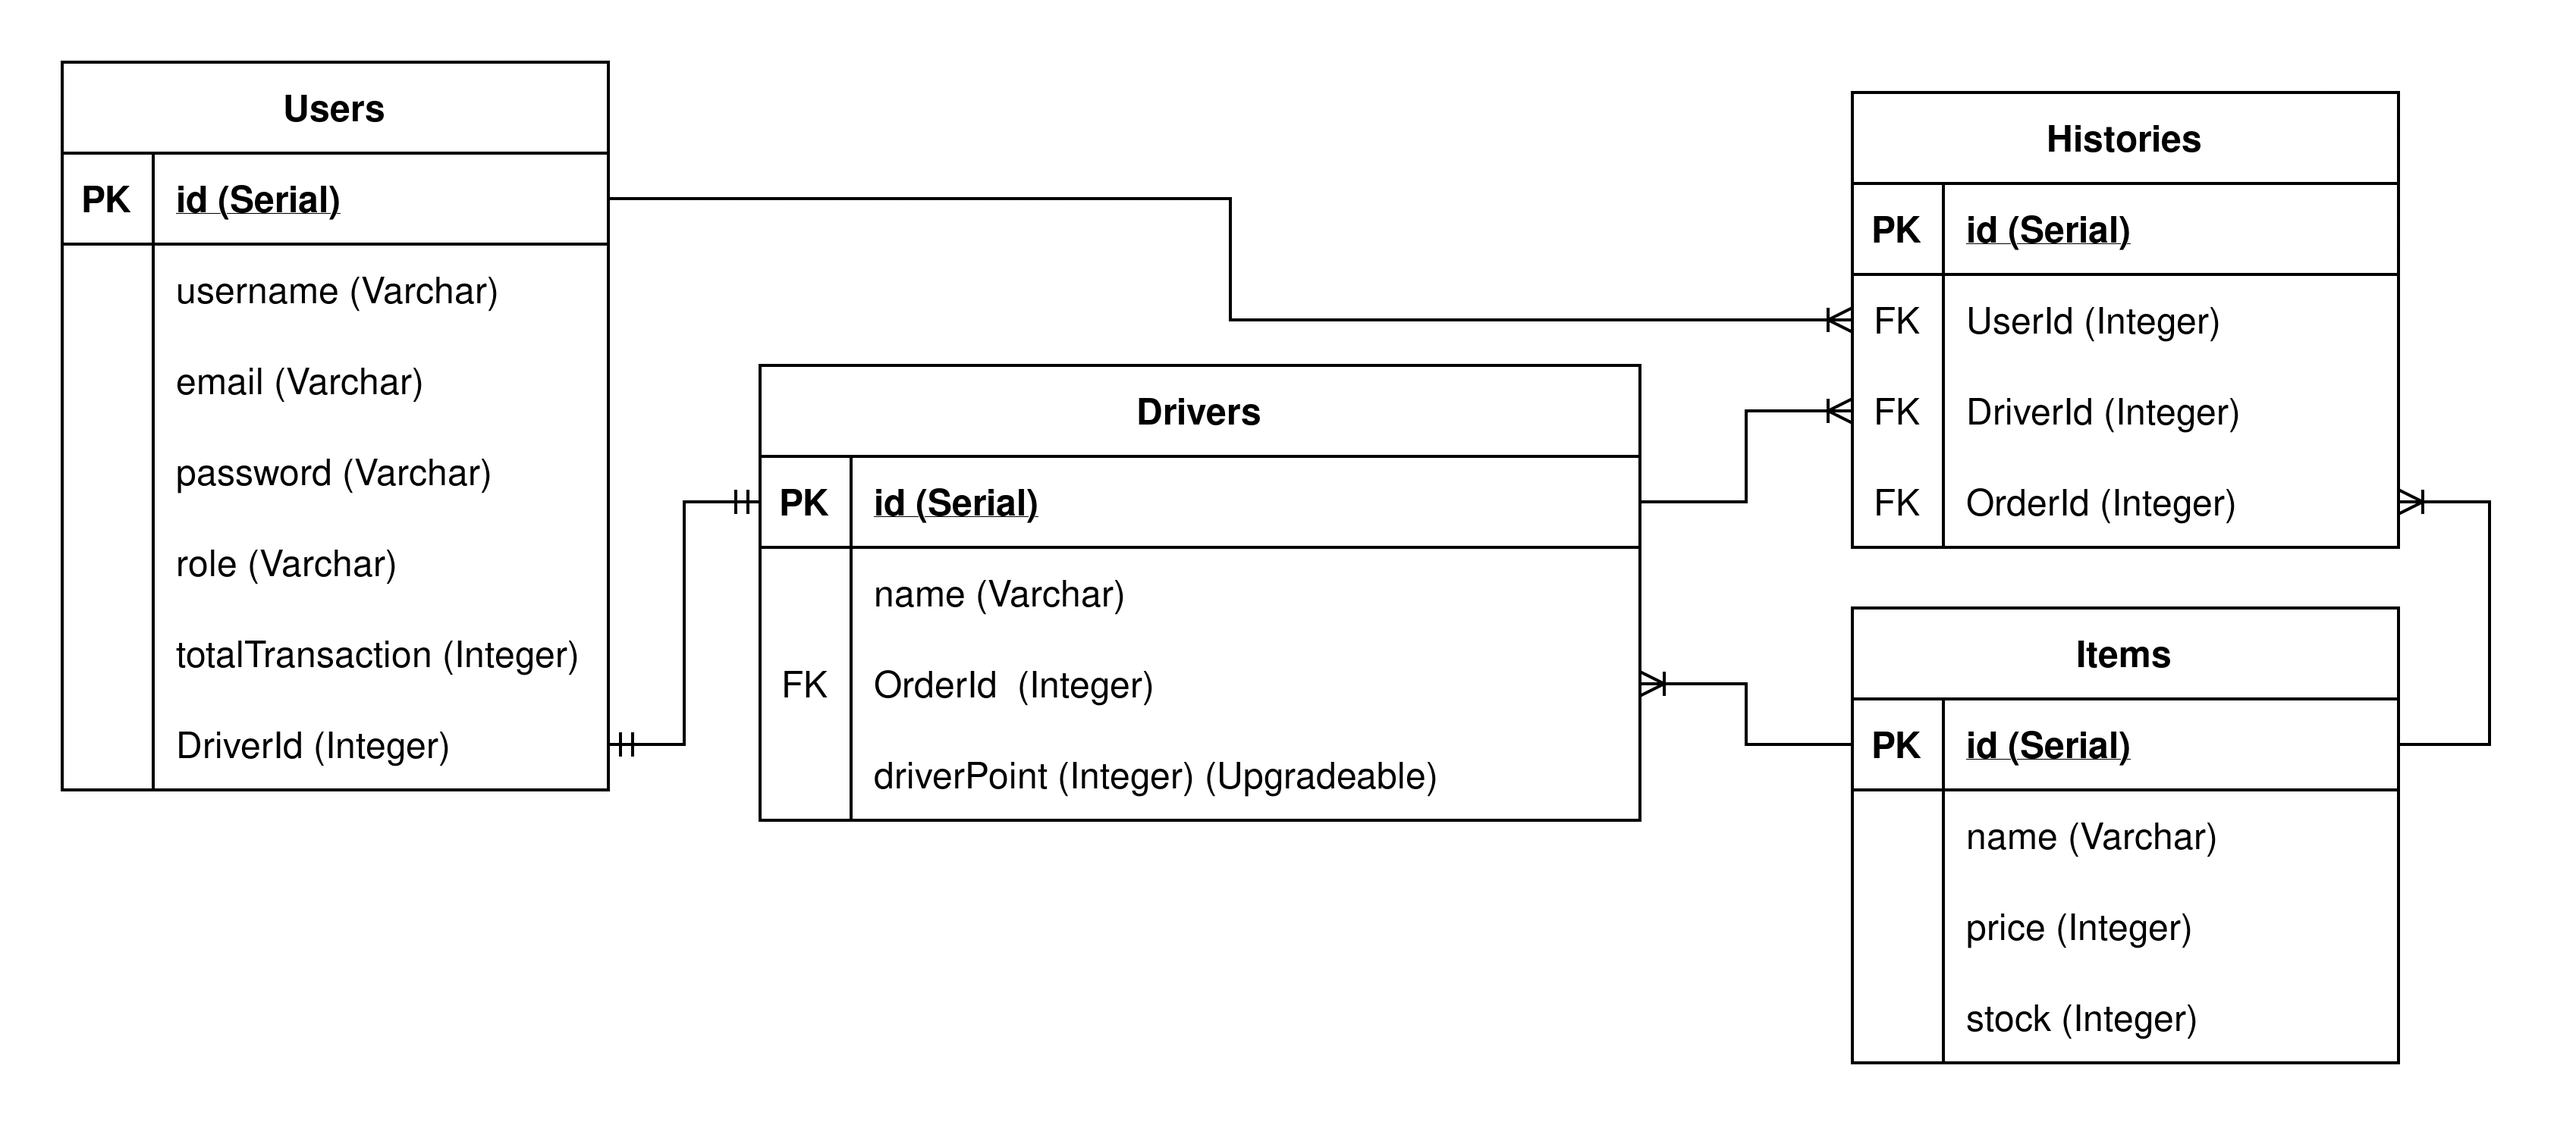
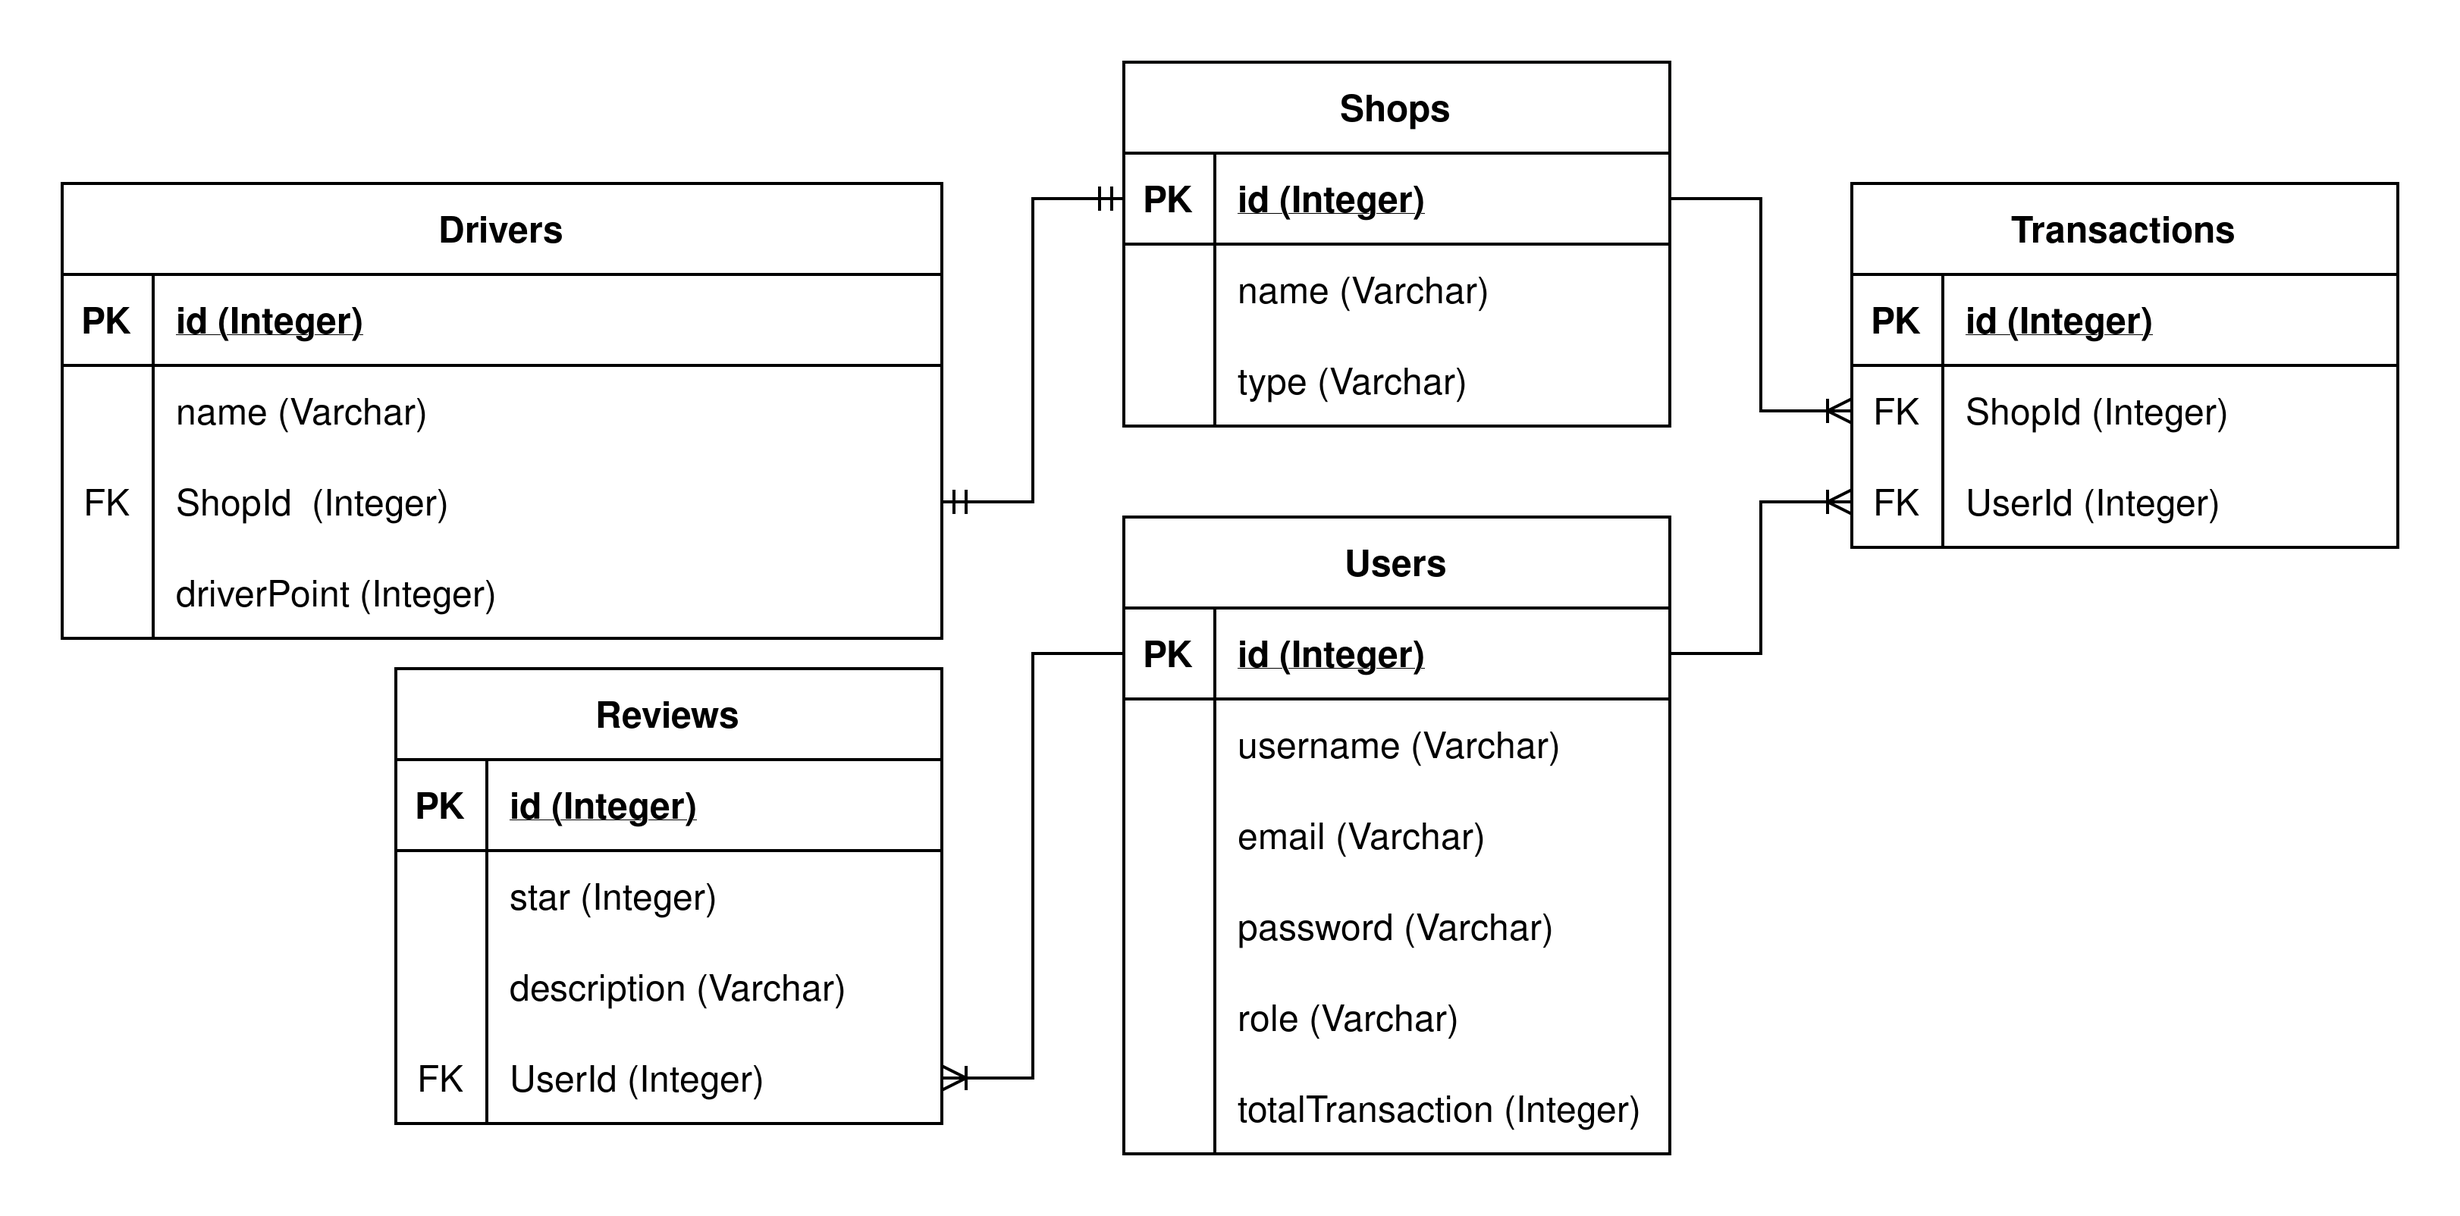
Refactor migrations

diff --git a/migrations/20221109170931-create-user.js b/migrations/20221109170931-create-user.js
@@ -2,33 +2,27 @@
 /** @type {import('sequelize-cli').Migration} */
 module.exports = {
   up(queryInterface, Sequelize) {
-    return queryInterface.createTable('Histories', {
+    return queryInterface.createTable('Users', {
       id: {
         allowNull: false,
         autoIncrement: true,
         primaryKey: true,
         type: Sequelize.INTEGER
       },
-      UserId: {
-	type: Sequelize.INTEGER,
-	references: {
-	  model: "Users",
-	  key: "id"
-	}
+      username: {
+        type: Sequelize.STRING
       },
-      DriverId: {
-	type: Sequelize.INTEGER,
-	references: {
-	  model: "Drivers",
-	  key: "id"
-	}
+      email: {
+        type: Sequelize.STRING
       },
-      ItemId: {
-	type: Sequelize.INTEGER,
-	references: {
-	  model: "Items",
-	  key: "id"
-	}
+      password: {
+        type: Sequelize.STRING
+      },
+      role: {
+        type: Sequelize.STRING
+      },
+      totalTransaction: {
+        type: Sequelize.INTEGER
       },
       createdAt: {
         allowNull: false,
@@ -41,6 +35,6 @@ module.exports = {
     });
   },
   down(queryInterface, Sequelize) {
-    return queryInterface.dropTable('Histories');
+    return queryInterface.dropTable('Users');
   }
 };

diff --git a/migrations/20221109171357-create-driver.js b/migrations/20221109171357-create-driver.js
@@ -2,33 +2,24 @@
 /** @type {import('sequelize-cli').Migration} */
 module.exports = {
   up(queryInterface, Sequelize) {
-    return queryInterface.createTable('Users', {
+    return queryInterface.createTable('Drivers', {
       id: {
         allowNull: false,
         autoIncrement: true,
         primaryKey: true,
         type: Sequelize.INTEGER
       },
-      username: {
+      name: {
         type: Sequelize.STRING
       },
-      email: {
-        type: Sequelize.STRING
-      },
-      password: {
-        type: Sequelize.STRING
-      },
-      role: {
-        type: Sequelize.STRING
-      },
-      totalTransaction: {
+      drivePoint: {
         type: Sequelize.INTEGER
       },
-      DriverId: {
-	type: Sequelize.INTEGER,
+      ShopId: {
+        type: Sequelize.INTEGER,
 	references: {
-	  model: "Drivers",
-	  key: "id"
+	  model: "Shops",
+	  key: "id",
 	}
       },
       createdAt: {
@@ -42,6 +33,6 @@ module.exports = {
     });
   },
   down(queryInterface, Sequelize) {
-    return queryInterface.dropTable('Users');
+    return queryInterface.dropTable('Drivers');
   }
 };

diff --git a/migrations/20221109171054-create-review.js b/migrations/20221109171054-create-review.js
@@ -2,24 +2,24 @@
 /** @type {import('sequelize-cli').Migration} */
 module.exports = {
   up(queryInterface, Sequelize) {
-    return queryInterface.createTable('Drivers', {
+    return queryInterface.createTable('Reviews', {
       id: {
         allowNull: false,
         autoIncrement: true,
         primaryKey: true,
         type: Sequelize.INTEGER
       },
-      name: {
-        type: Sequelize.STRING
-      },
-      drivePoint: {
+      star: {
         type: Sequelize.INTEGER
       },
-      ItemId: {
-	type: Sequelize.INTEGER,
+      description: {
+        type: Sequelize.STRING
+      },
+      UserId: {
+        type: Sequelize.INTEGER,
 	references: {
-	  model: "Items",
-	  key: "id"
+	  model: "Users",
+	  key: "id",
 	}
       },
       createdAt: {
@@ -33,6 +33,6 @@ module.exports = {
     });
   },
   down(queryInterface, Sequelize) {
-    return queryInterface.dropTable('Drivers');
+    return queryInterface.dropTable('Reviews');
   }
 };

diff --git a/migrations/20221109171222-create-transaction.js b/migrations/20221109171222-create-transaction.js
@@ -1,0 +1,39 @@
+'use strict';
+/** @type {import('sequelize-cli').Migration} */
+module.exports = {
+  up(queryInterface, Sequelize) {
+    return queryInterface.createTable('Transactions', {
+      id: {
+        allowNull: false,
+        autoIncrement: true,
+        primaryKey: true,
+        type: Sequelize.INTEGER
+      },
+      ShopId: {
+        type: Sequelize.INTEGER,
+	references: {
+	  model: "Shops",
+	  key: "id",
+	}
+      },
+      UserId: {
+        type: Sequelize.INTEGER,
+	references: {
+	  model: "Users",
+	  key: "id",
+	}
+      },
+      createdAt: {
+        allowNull: false,
+        type: Sequelize.DATE
+      },
+      updatedAt: {
+        allowNull: false,
+        type: Sequelize.DATE
+      }
+    });
+  },
+  down(queryInterface, Sequelize) {
+    return queryInterface.dropTable('Transactions');
+  }
+};

diff --git a/migrations/20221109171005-create-shop.js b/migrations/20221109171005-create-shop.js
@@ -2,7 +2,7 @@
 /** @type {import('sequelize-cli').Migration} */
 module.exports = {
   up(queryInterface, Sequelize) {
-    return queryInterface.createTable('Items', {
+    return queryInterface.createTable('Shops', {
       id: {
         allowNull: false,
         autoIncrement: true,
@@ -12,11 +12,8 @@ module.exports = {
       name: {
         type: Sequelize.STRING
       },
-      price: {
-        type: Sequelize.INTEGER
-      },
-      stock: {
-        type: Sequelize.INTEGER
+      type: {
+        type: Sequelize.STRING
       },
       createdAt: {
         allowNull: false,
@@ -29,6 +26,6 @@ module.exports = {
     });
   },
   down(queryInterface, Sequelize) {
-    return queryInterface.dropTable('Items');
+    return queryInterface.dropTable('Shops');
   }
 };

diff --git a/models/shop.js b/models/shop.js
@@ -3,7 +3,7 @@ const {
   Model
 } = require('sequelize');
 module.exports = (sequelize, DataTypes) => {
-  class Item extends Model {
+  class Shop extends Model {
     /**
      * Helper method for defining associations.
      * This method is not a part of Sequelize lifecycle.
@@ -11,17 +11,14 @@ module.exports = (sequelize, DataTypes) => {
      */
     static associate(models) {
       // define association here
-      Item.hasMany(models.Driver);
-      Item.hasMany(models.History);
     }
   }
-  Item.init({
+  Shop.init({
     name: DataTypes.STRING,
-    price: DataTypes.INTEGER,
-    stock: DataTypes.INTEGER
+    type: DataTypes.STRING
   }, {
     sequelize,
-    modelName: 'Item',
+    modelName: 'Shop',
   });
-  return Item;
+  return Shop;
 };

diff --git a/models/review.js b/models/review.js
@@ -3,7 +3,7 @@ const {
   Model
 } = require('sequelize');
 module.exports = (sequelize, DataTypes) => {
-  class Driver extends Model {
+  class Review extends Model {
     /**
      * Helper method for defining associations.
      * This method is not a part of Sequelize lifecycle.
@@ -13,13 +13,13 @@ module.exports = (sequelize, DataTypes) => {
       // define association here
     }
   }
-  Driver.init({
-    name: DataTypes.STRING,
-    drivePoint: DataTypes.INTEGER,
-    ShopId: DataTypes.INTEGER
+  Review.init({
+    star: DataTypes.INTEGER,
+    description: DataTypes.STRING,
+    UserId: DataTypes.INTEGER
   }, {
     sequelize,
-    modelName: 'Driver',
+    modelName: 'Review',
   });
-  return Driver;
+  return Review;
 };

diff --git a/models/transaction.js b/models/transaction.js
@@ -3,7 +3,7 @@ const {
   Model
 } = require('sequelize');
 module.exports = (sequelize, DataTypes) => {
-  class Driver extends Model {
+  class Transaction extends Model {
     /**
      * Helper method for defining associations.
      * This method is not a part of Sequelize lifecycle.
@@ -13,13 +13,12 @@ module.exports = (sequelize, DataTypes) => {
       // define association here
     }
   }
-  Driver.init({
-    name: DataTypes.STRING,
-    drivePoint: DataTypes.INTEGER,
-    ShopId: DataTypes.INTEGER
+  Transaction.init({
+    ShopId: DataTypes.INTEGER,
+    UserId: DataTypes.INTEGER
   }, {
     sequelize,
-    modelName: 'Driver',
+    modelName: 'Transaction',
   });
-  return Driver;
+  return Transaction;
 };

diff --git a/models/user.js b/models/user.js
@@ -11,8 +11,6 @@ module.exports = (sequelize, DataTypes) => {
      */
     static associate(models) {
       // define association here
-      User.belongsTo(models.Driver);
-      User.hasMany(models.History);
     }
   }
   User.init({
@@ -20,14 +18,7 @@ module.exports = (sequelize, DataTypes) => {
     email: DataTypes.STRING,
     password: DataTypes.STRING,
     role: DataTypes.STRING,
-    totalTransaction: DataTypes.INTEGER,
-    DriverId: {
-      type: DataTypes.INTEGER,
-      references: {
-	model: "Drivers",
-	key: "id"
-      }
-    },
+    totalTransaction: DataTypes.INTEGER
   }, {
     sequelize,
     modelName: 'User',
